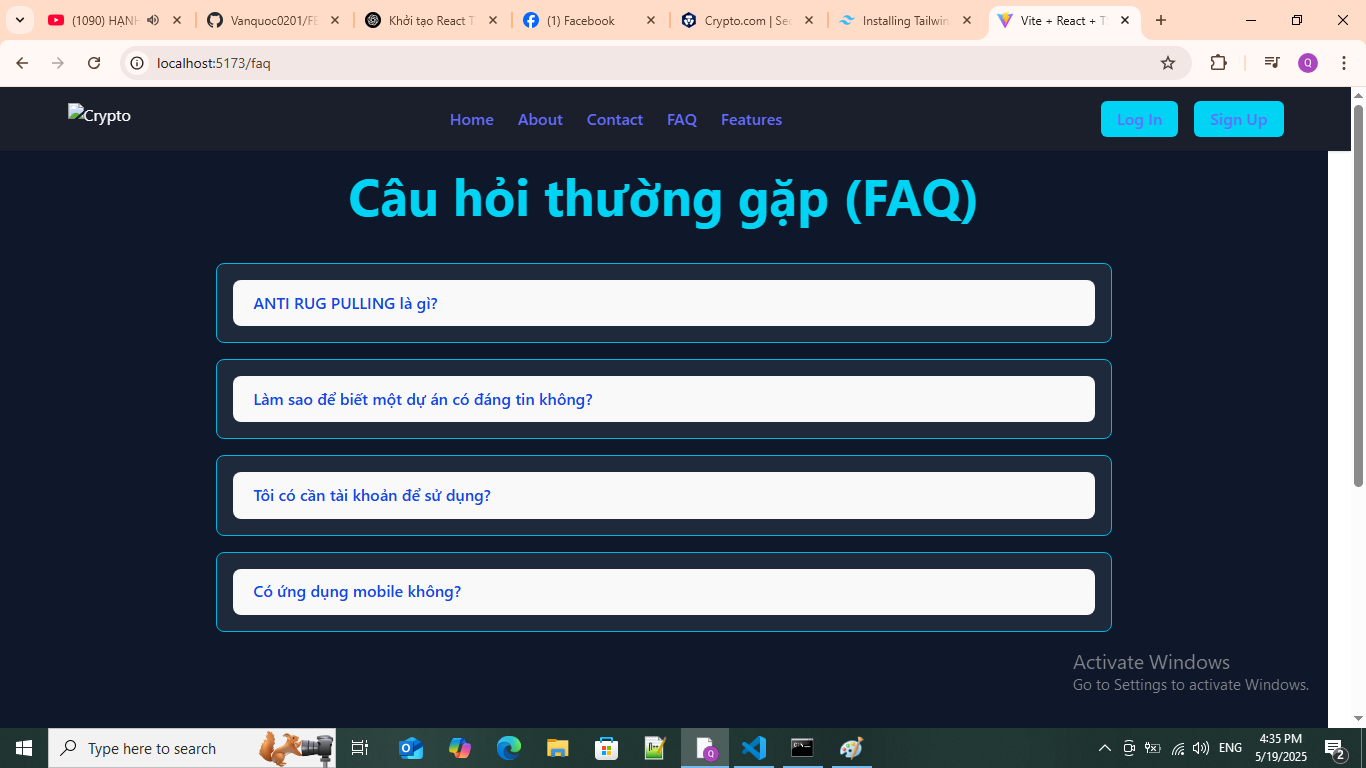
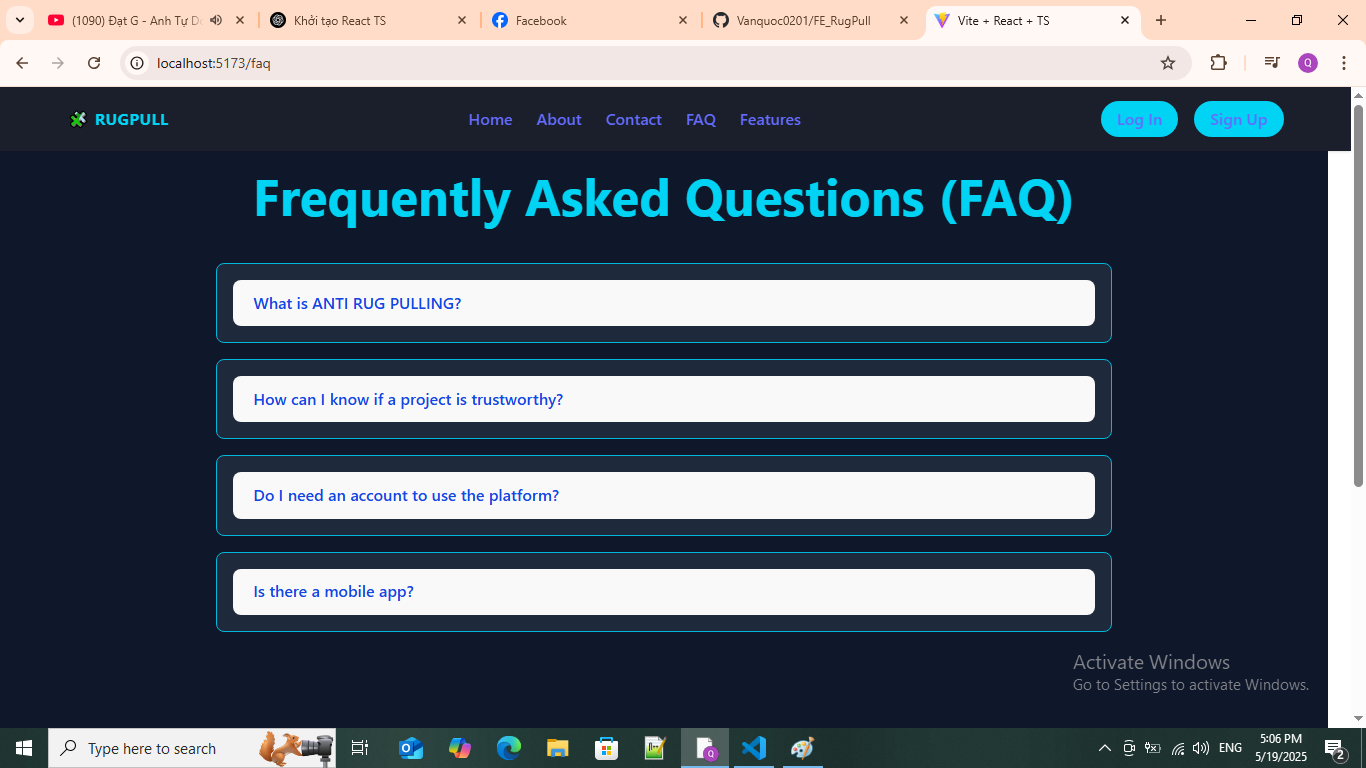
Fix

diff --git a/src/components/Navbar.tsx b/src/components/Navbar.tsx
@@ -18,9 +18,10 @@ const Navbar = () => {
       <div className="max-w-7xl mx-auto px-4 sm:px-6 lg:px-8 flex items-center justify-between h-16">
         {/* Logo */}
         <div className="flex items-center">
-          <span className="text-2xl font-bold text-cyan-400 tracking-wide">
-            RugPull
+          <span className="text-cyan-400 font-bold tracking-wide flex items-center gap-2 text-base uppercase">
+            🧩 RugPull
           </span>
+
         </div>
 
 
@@ -41,13 +42,13 @@ const Navbar = () => {
         <div className="hidden md:flex space-x-4">
           <Link
             to="/login"
-            className="bg-cyan-400 text-blue-900 hover:bg-cyan-500 px-4 py-1.5 rounded-md transition"
+            className="bg-cyan-400 text-blue-900 hover:bg-cyan-500 px-4 py-1.5 rounded-full transition"
           >
             Log In
           </Link>
           <Link
             to="/signup"
-            className="bg-cyan-400 text-blue-900 hover:bg-cyan-500 px-4 py-1.5 rounded-md transition"
+            className="bg-cyan-400 text-blue-900 hover:bg-cyan-500 px-4 py-1.5 rounded-full transition"
           >
             Sign Up
           </Link>

diff --git a/src/components/Footer.tsx b/src/components/Footer.tsx
@@ -31,9 +31,10 @@ const Footer = () => {
         {/* Logo */}
             <div>
               <div className="flex items-center">
-          <span className="text-2xl font-bold text-cyan-400 tracking-wide">
-            RugPull
-          </span>
+              <span className="text-cyan-400 font-bold tracking-wide flex items-center gap-2 text-base uppercase">
+                🧩 RugPull
+              </span>
+
         </div>
 
           <p className="text-sm">The World’s Leading Cryptocurrency Platform</p>
